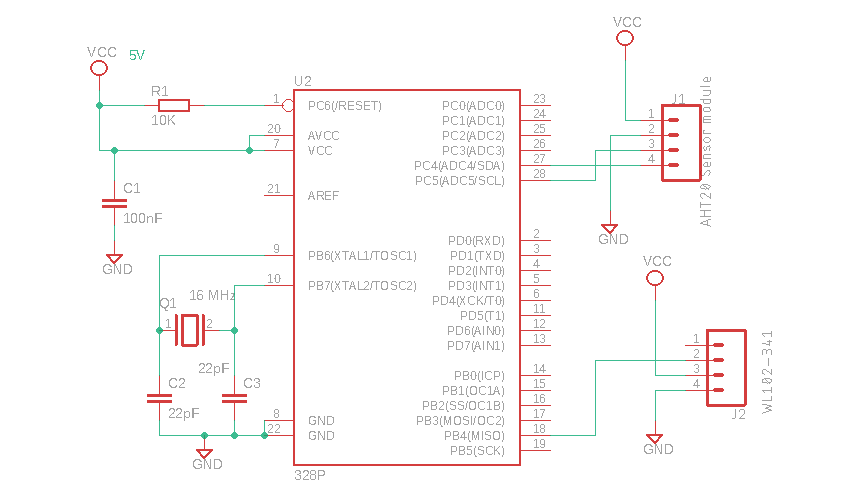
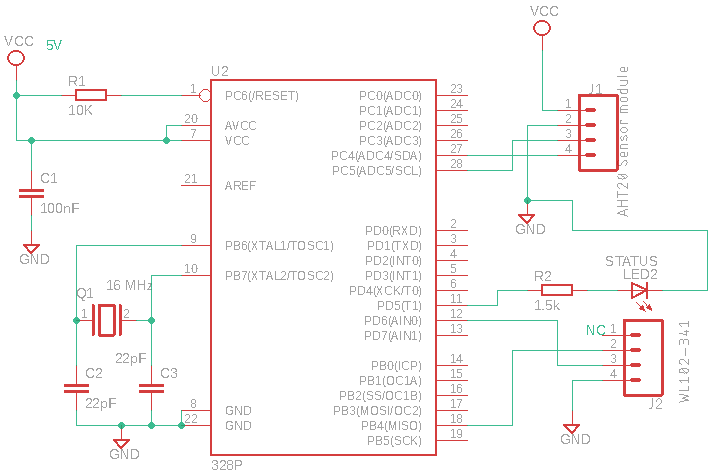
Added new sleep library, Status LED , TX power control

diff --git a/README.md b/README.md
@@ -12,8 +12,8 @@ Overview
 * Title : RF_DATA_LINK
 * Description : 
 
-An RF data link between Two ATMEGA328p's ,
-Sensor data is transferred Via a 433 Mhz transmitter.
+An low power RF data link between two Arduino based ATmega328p's units,
+Sensor data is transferred via a 433 MHz RF data link
 and then displayed on a OLED CH1115 at Receiver end.
 
 * Author: Gavin Lyons
@@ -23,36 +23,48 @@ and then displayed on a OLED CH1115 at Receiver end.
 Features
 ---------------------
 
-Set up a RF data link between two ATMEGA328's.
+A low power RF data link between two Arduino ATmega328's circuits
 Project uses WL102-341 transmitter and WL101-341 receiver  , 433 MHz ASK modulation RF Link.
 
-The transmitter has a AHT10 Sensor it sends data once a minute and then the TX ATMEGA328 goes to sleep mode.
+**Receiver unit :**
 
 The receiver displays this data from transmitter and as well as its own sensor data LM75A
-on an OLED CH1115 display. Software SPI is used to drive OLED.
+on an OLED CH1115 display. Software SPI is used to drive OLED.  Possible OLED error messages meanings are listed in header section of rx ino file.
+In addition to transmitted sensor data, the voltage supply of the transmitter unit is also sent so battery voltage of transmitter unit can be monitored and a count of receives is displayed. OLED ERROR Messages in file in documentation section.
+The receiver is currently based around an 
+Arduino nano board will be powered from a PSU wall plug adaptor, may change this to a low power battery design with a lower power display at later date.
+  
+**Transmitter unit :**
 
-In addition to transmitted sensor data . The Voltage supply of the transmitter is also sent so
-battery voltage of transmitter unit can be monitored and a count of receives is displayed.
+The transmitter unit is battery powered and is based around  "barebones" ATmega328
+On transmitter a status LED turns on during power on setup and during each data burst very briefly.  The transmitter has an AHT10 Sensor it sends data once a minute and then it goes to sleep mode.  
 
+1. Transmitter current consumption sleep period ~20uA
+2. Transmitter current consumption wake period ~30mA 
+
+The data packet sent :  XTT.TT,HH.HH,V.VV . X is + or - T is temperature H is humdity and V is battery voltage , 17 bytes. 
+
+ WL102-341 transmitter and WL101-341 receiver units used : 
   
  ![4](https://github.com/gavinlyonsrepo/RF_DATA_LINK/blob/main/image/433.jpg) 
   
 Files 
 ---------------------
 
-1. RF_data_link.ino receiver side
-2. RF_data_link_TX.ino transmitter side
+1. RF_data_link.ino : receiver side
+2. RF_data_link_TX.ino : transmitter side
 
-Libraries used are in comments of HW connection header section of ino files. 
+Libraries URL's used are listed in comments of library section of ino files. 
+The OLED 
 
 Schematic 
 -----------------------
 
-Transmitter 
+Transmitter unit :
 
 ![t](https://github.com/gavinlyonsrepo/RF_DATA_LINK/blob/main/image/tx.png)
 
-Receiver 
+Receiver unit:
 
 ![r](https://github.com/gavinlyonsrepo/RF_DATA_LINK/blob/main/image/rx.png)
 
@@ -60,6 +72,4 @@ Receiver
 TODO
 --------------------
 
-Final testing.
-
-PCB design + final build. 
+PCB design + final build
